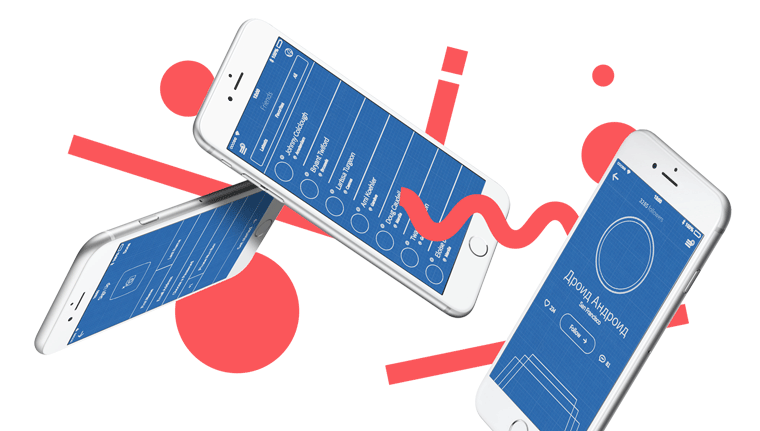
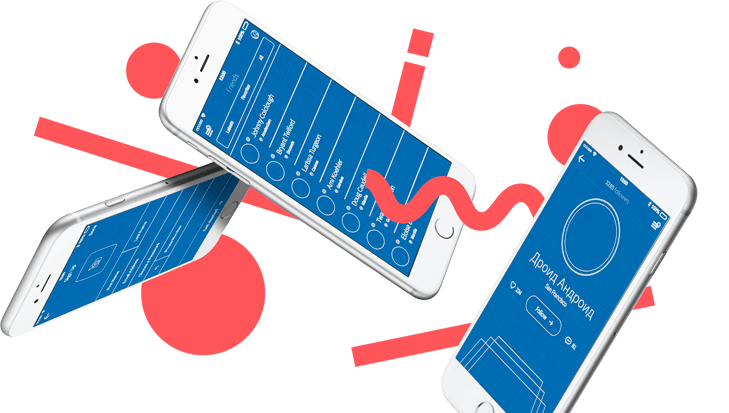
css к слайдам и слайды с position

diff --git a/css/style.css b/css/style.css
@@ -672,22 +672,21 @@ a {
   display: block;
 }*/
 
+.slider-item {
+  background-repeat: no-repeat;
+  background-position: 100% 100%;
+}
+
 .slider-item:nth-child(1) {
   background-image: url("../img/slide1.png");
-  background-repeat: no-repeat;
-  background-position: right 3px bottom 0;
 }
 
 .slider-item:nth-child(2) {
   background-image: url("../img/slide2.png");
-  background-repeat: no-repeat;
-  background-position: 100% 100%;
 }
 
 .slider-item:nth-child(3) {
   background-image: url("../img/slide3.png");
-  background-repeat: no-repeat;
-  background-position: 100% 100%;
 }
 
 .slider-list {
